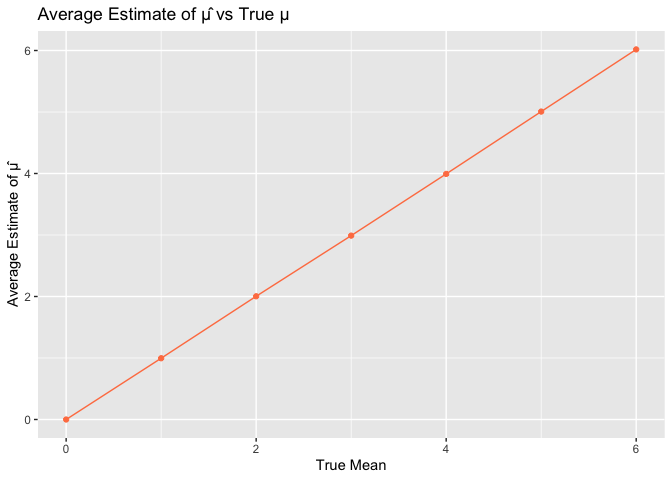
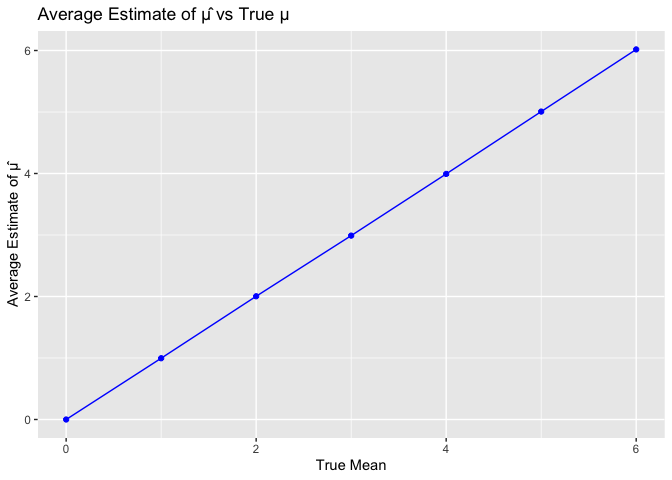
updated with descriptions

diff --git a/p8105_hw5_ab6169.md b/p8105_hw5_ab6169.md
@@ -95,7 +95,7 @@ Comments: This plot shows us how probability of at least two people
 sharing a birthday increases as the group size grows. When there are
 fewer than 10 people in the room, the probability is close to zero. This
 means that having a shared birthday is very unlikely. Meanwhile, as the
-group size approaches around 20-25 people, the probability rises and
+group size approaches around 20-25 people, the probability increases and
 reaches to about 50%. I also observed that the curve begins to flatten
 after about 35 people.
 
@@ -161,8 +161,11 @@ power_df |>
 ```
 
 ![](p8105_hw5_ab6169_files/figure-gfm/unnamed-chunk-10-1.png)<!-- -->
-Description: I observed that the association between effect size and
-power.
+Description: I observed that as the effect size (true mean) increases,
+the power of the test also increases. I see that when the true mean is
+is close to 0, the power is low. As the effect size gets larger, there
+is higher statistical power. This basically means that the probability
+of rejecting the null rises sharply.
 
 Average Estimate
 
@@ -171,7 +174,7 @@ estimate_df =
   sims_df |>
   group_by(mu_true) |>
   summarize(
-    mean_mu_hat_all    = mean(mu_hat),
+    mean_mu_hat_all = mean(mu_hat),
     mean_mu_hat_reject = mean(mu_hat[reject]),
     .groups = "drop"
   )
@@ -190,13 +193,13 @@ estimate_df
     ## 6       5        5.01                 5.01  
     ## 7       6        6.02                 6.02
 
-Plot of Average Estimate
+Individual Plot of Average Estimate
 
 ``` r
 estimate_df |>
   ggplot(aes(x = mu_true, y = mean_mu_hat_all)) +
-  geom_point(color = "coral") +
-  geom_line(color = "coral") +
+  geom_point(color = "blue") +
+  geom_line(color = "blue") +
   labs(
     title = "Average Estimate of μ̂ vs True μ",
     x = "True Mean",
@@ -206,23 +209,7 @@ estimate_df |>
 
 ![](p8105_hw5_ab6169_files/figure-gfm/unnamed-chunk-12-1.png)<!-- -->
 
-Plot: average estimate
-
-``` r
-estimate_df |>
-  ggplot(aes(x = mu_true, y = mean_mu_hat_all)) +
-  geom_line(color = "blue") +
-  geom_point(color = "blue") +
-  labs(
-    title = "Average Estimate of μ̂ vs True Mean (μ)",
-    x = "True Mean (μ)",
-    y = "Average Estimate of μ̂"
-  )
-```
-
-![](p8105_hw5_ab6169_files/figure-gfm/unnamed-chunk-13-1.png)<!-- -->
-
-Plot: Null Rejected
+Individual Plot: Null Rejected
 
 ``` r
 estimate_df |>
@@ -236,7 +223,8 @@ estimate_df |>
   )
 ```
 
-![](p8105_hw5_ab6169_files/figure-gfm/unnamed-chunk-14-1.png)<!-- -->
+![](p8105_hw5_ab6169_files/figure-gfm/unnamed-chunk-13-1.png)<!-- -->
+
 Comments: The sample average of μ̂ across tests for which the null is
 rejected is not approximately equal to the true value of μ. I observed
 that when we only include samples where the null hypothesis was rejected
@@ -262,7 +250,15 @@ janitor::clean_names()
     ## ℹ Use `spec()` to retrieve the full column specification for this data.
     ## ℹ Specify the column types or set `show_col_types = FALSE` to quiet this message.
 
-Description of Data:
+Description of Data: The contains information on homicide cases
+collected by The Washington Post from 50 major U.S. cities. It includes
+a total of 52179 observations and 12 variables. Each row represents a
+single homicide incident and provides details such as the victim’s name,
+age, race, and sex, the date the case was reported, the city and state
+where it occurred, and the case disposition status. After cleaning the
+variable names using the `janitor::clean_names()` function, a new
+variable called `city_state` was created by combining the `city` and
+`state` columns
 
 ``` r
 unsolved_levels= c("Closed without arrest", "Closed by arrest")
@@ -358,6 +354,8 @@ city_results <- city_counts |>
     ## Caused by warning in `prop.test()`:
     ## ! Chi-squared approximation may be incorrect
 
+Plot: Estimates and CIs for each city
+
 ``` r
 city_results |>
   mutate(city_state = forcats::fct_reorder(city_state, estimate)) |>
@@ -372,4 +370,4 @@ city_results |>
   scale_y_continuous(labels = scales::percent_format(accuracy = 1))
 ```
 
-![](p8105_hw5_ab6169_files/figure-gfm/unnamed-chunk-19-1.png)<!-- -->
+![](p8105_hw5_ab6169_files/figure-gfm/unnamed-chunk-18-1.png)<!-- -->
